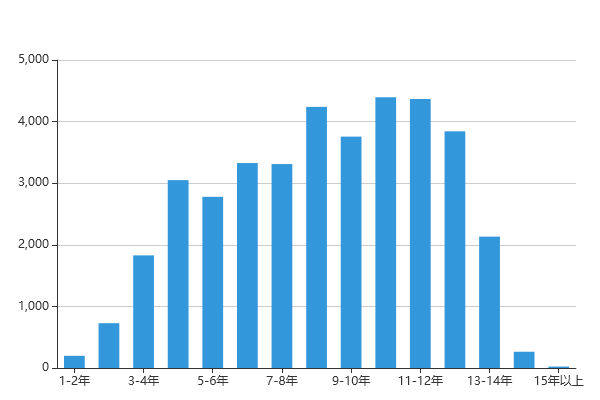
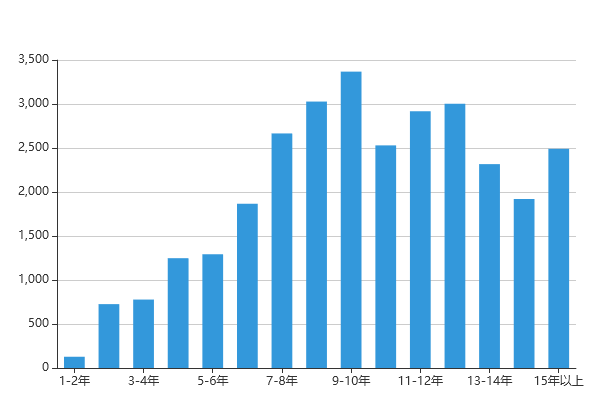
change

diff --git a/server/public/my_js/hhh.js b/server/public/my_js/hhh.js
@@ -1,7 +1,6 @@
 // app.title = '坐标轴刻度与标签对齐';
 
 option = {
-    //saveAsImage: {backgroundColor: '#ffffff'},
     backgroundColor: '#ffffff',
     color: ['#3398DB'],
     tooltip : {
@@ -35,7 +34,7 @@ option = {
             name:'直接访问',
             type:'bar',
             barWidth: '60%',
-            data:[198,728,1829,3050,2779,3327,3311,4239,3756,4396,4367,3843,2133,264,24]  //[a,b]
+            data:[128,726,778,1248,1293,1867,2666,3028,3368,2530,2918,3003,2317,1921,2491]  //[a,b]
         }
     ]
 };

diff --git a/README.md b/README.md
@@ -26,3 +26,21 @@ csv to echart graph and (save locally)
 
 
 template need to be considered ...
+
+
+1. 
+   .3 cd /data/scripts/report/shell 
+   change 车龄分布.sh (换品牌，季度)
+   sh 车龄分布.sh
+   sz ../csv/车龄发布.csv --> c:/temp
+
+2. copy c:\temp\车龄发布.csv  C:\Users\williamchen\Documents\GitHub\echarts3_practice\tools\流向处理\车龄发布.csv
+   cd C:\Users\williamchen\Documents\GitHub\echarts3_practice\tools\流向处理
+   ruby 车龄分布.rb
+
+3. cd C:\Users\williamchen\Documents\GitHub\echarts3_practice\client
+   ruby client_test.rb
+
+4. check C:\Users\williamchen\Documents\GitHub\echarts3_practice\server\public\hhh.png
+
+
